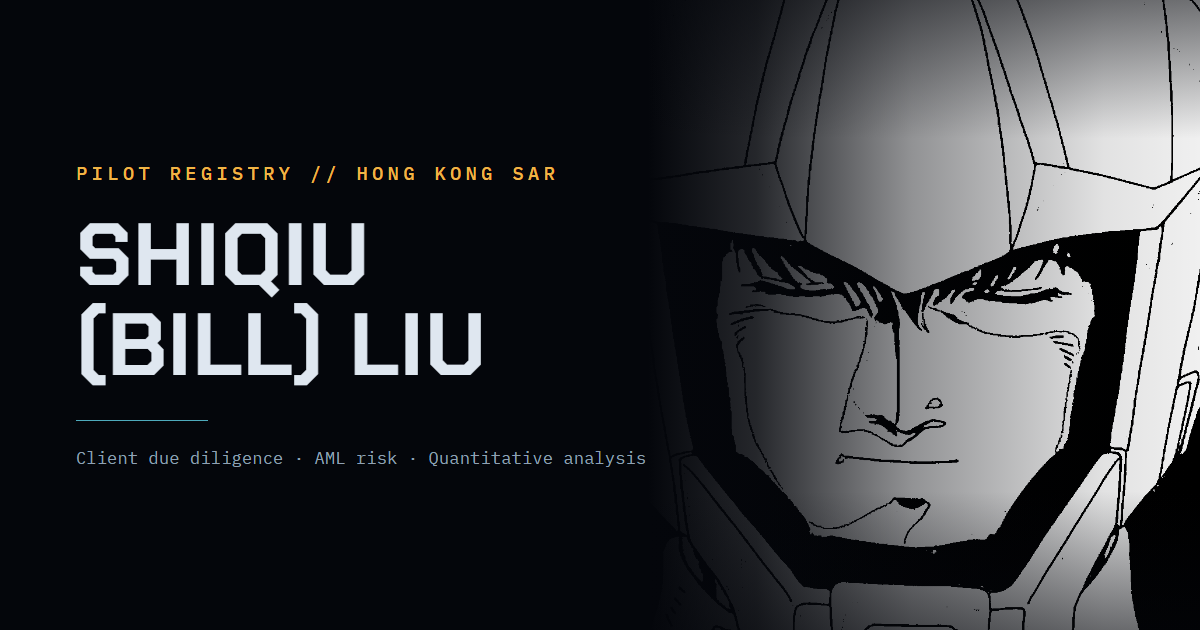
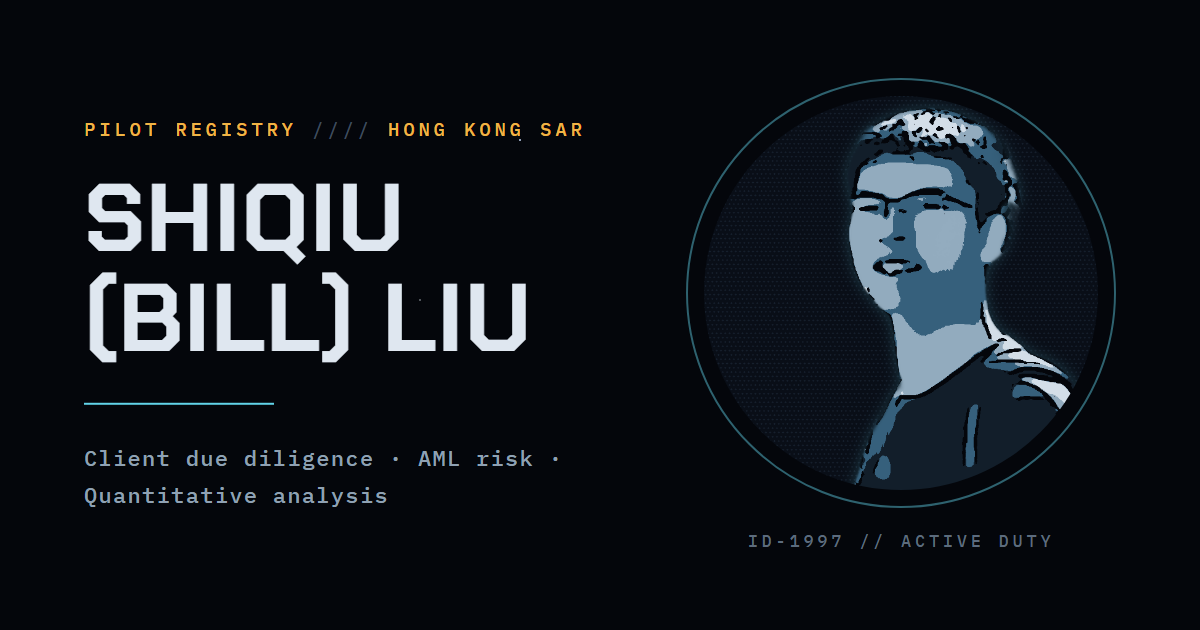
~ (seo) open graph card features the pilot portrait

diff --git a/src/routes/+page.svelte b/src/routes/+page.svelte
@@ -84,7 +84,7 @@
 	<meta property="og:image:height" content="630" />
 	<meta
 		property="og:image:alt"
-		content="Pilot registry card for Shiqiu (Bill) Liu over ink cockpit art"
+		content="Pilot registry card for Shiqiu (Bill) Liu with his manga-style portrait"
 	/>
 
 	<meta name="twitter:card" content="summary_large_image" />
